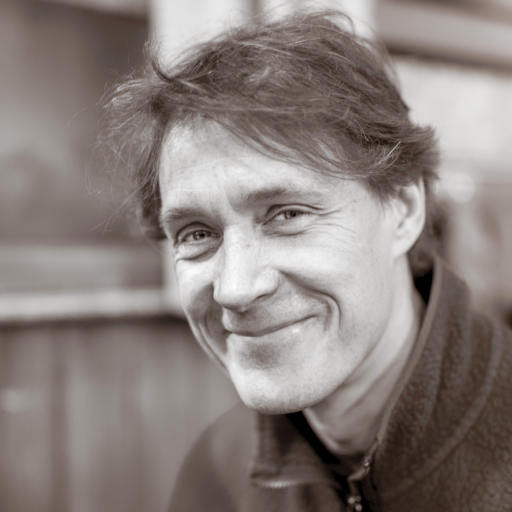
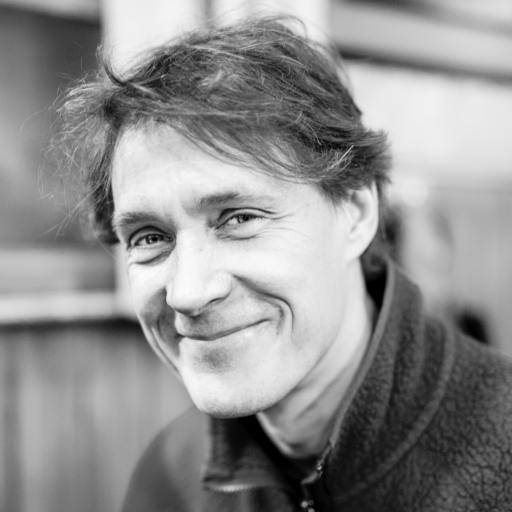
Added images, ' confirmed speakers'

diff --git a/layouts/abstracts/single.html b/layouts/abstracts/single.html
@@ -62,9 +62,9 @@
                 </ul>
               </div>
             {{ end }}
-            <div class="lg:col-4 flex items-center">
+            {{/*  <div class="lg:col-4 flex items-center">
               {{ partial "social-share" (dict "Context" . "Class" "share-icons" "Title" (i18n "share") "Whatsapp" false "Telegram" false "Linkedin" false "Pinterest" false "Tumblr" false "Vk" false) }}
-            </div>
+            </div>  */}}
           </div>
           <!-- comments -->
           {{ if site.Config.Services.Disqus.Shortname }}

diff --git a/content/english/topics/03b_qcr-in-material-science.md b/content/english/topics/03b_qcr-in-material-science.md
@@ -14,4 +14,7 @@ draft: false
 
 |Introduced by [Anna Krawczuk](/authors/anna-krawczuk)|
 |:-----------:|
-|This session explores the use of quantum crystallography to investigate structure-property relationships in crystalline materials. By providing detailed insights into the directionality, anisotropy, and strength of intermolecular interactions, these techniques enable the fine-tuning of selected physical properties. We welcome abstracts presenting studies that highlight the role of quantum crystallography in understanding and designing crystalline phases with tailored properties. |
+|This session explores the use of quantum crystallography to investigate structure-property relationships in crystalline materials. By providing detailed insights into the directionality, anisotropy, and strength of intermolecular interactions, these techniques enable the fine-tuning of selected physical properties. We welcome abstracts presenting studies that highlight the role of quantum crystallography in understanding and designing crystalline phases with tailored properties.|
+
+### Confirmed Speakers
+[Anna Krawczuk](/authors/anna-krawczuk)

diff --git a/content/english/authors/loes-kroon-batenburg.md b/content/english/authors/loes-kroon-batenburg.md
@@ -2,13 +2,18 @@
 title: Loes Kroon-Batenburg
 email: l.m.j.kroon-batenburg@uu.nl
 image: "/images/authors/LKB.jpg"
-image: "/images/avatar.png"
-
 description: 
 weight: 50
+social:
+  - name: Likedin
+    icon: fa-brands fa-linkedin
+    link: https://www.linkedin.com/in/loes-kroon-batenburg-21286a63
 
 ---
 
 **Loes Kroon-Batenburg** will introduce the section
 
 [From Frames to Intensity Data](/topics/05_raw-data-to-intensity)
+
+Loes Kroon-Batenburg is retired from the Utrecht University. She has been working on a wide variety of research subjects: crystal structures of carbohydrates, quantum chemistry of hydrogen bonding, fibre diffraction, data processing methods for complicated diffraction patterns (EVAL) and diffuse scattering in macromolecular and chemical crystallography. Since 2011 she was member of IUCr-DDDWG and continued as member of CommDat  since 2017. She is editor of  the Raw Data Letter section of IUCrData.
+

diff --git a/content/english/topics/05_raw-data-to-intensity.md b/content/english/topics/05_raw-data-to-intensity.md
@@ -17,3 +17,7 @@ draft: false
 |How to best separate Bragg peak and background|
 |What is done in data reduction? Lorentz and polarization correction, absorption correction, extinction correction, scaling, estimates of standard deviations|
 |How to record your diffraction results and make your data available to other users: FAIR data policies and metadata|
+
+### Confirmed Speakers
+[Loes Kroon-Batenburg](/authors/loes-kroon-batenburg)
+

diff --git a/content/english/topics/08_correlations-in-refinement-models.md b/content/english/topics/08_correlations-in-refinement-models.md
@@ -11,8 +11,11 @@ author: "Regine Herbst-Irmer"
 draft: false
 ---
 
-Introduced by [Could this be you?](/authors/nobody-assigned-yet)|
+Introduced by [Regine Herbst-Irmner](/authors/regine-herbst-irmer)|
 |:---:|
 |Things you can't see independently (disorder/ADPs)|
 |Pitfalls and remedies|
 |Best practices |
+
+### Confirmed Speakers
+[Regine Herbst-Irmner](/authors/regine-herbst-irmer)

diff --git a/content/english/authors/florian-kleemiss.md b/content/english/authors/florian-kleemiss.md
@@ -11,11 +11,11 @@ social:
 
   - name: Likedin
     icon: fa-brands fa-linkedin
-    link: linkedin.com/in/florian-kleemiß-6a4ab42aa
+    link: https://www.linkedin.com/in/florian-kleemi%C3%9F-6a4ab42aa/
 
   - name: OrcidID
     icon: fa-brands fa-orcid
-    link: linkedin.com/in/florian-kleemiß-6a4ab42aa
+    link: https://orcid.org/0000-0002-3631-1535
 
 ---
 

diff --git a/content/english/authors/ashwin-chari.md b/content/english/authors/ashwin-chari.md
@@ -1,11 +1,14 @@
 ---
 title: Ashwin Chari
 email: 
-# image: "/images/authors/AC.jpg"
-image: "/images/avatar.png"
+image: "/images/authors/AC.jpg"
 description: 
 weight: 13
 
 ---
 
-**Ashwin Chari** will talk at the ICDM10.
+**Ashwin Chari** will introduce the topic area of
+
+[Quantum Crystallography and Protein Structures](/topics/13_qcr_and_proteins)
+
+

diff --git a/content/english/abstracts/chari-ashwin.md b/content/english/abstracts/chari-ashwin.md
@@ -1,0 +1,13 @@
+---
+title: "High-precision, high-accuracy macromolecular crystallography"
+author: "Ashwin Chari"
+affiliation: "Max Planck Institute for Multidisciplinary Sciences"
+meta_title: ""
+description: ""
+date: 2025-03-21
+categories: ["Talk"]
+tags: ["macromolecular", "high-accuracy"]
+draft: false
+params:
+  math: true
+---

diff --git a/content/english/topics/13_QCr_and_proteins.md b/content/english/topics/13_QCr_and_proteins.md
@@ -12,6 +12,9 @@ author: "Nobody Assigned Yet"
 
 ---
 
-Introduced by [Could this be you?](/authors/nobody-assigned-yet)|
+Introduced by [Ashwin Chari](/authors/ashwin-chari)|
 |:---:|
 |How can QCr help with protein structures?|
+
+### Confirmed Speakers
+[Ashwin Chari](/authors/ashwin-chari)

diff --git a/content/english/authors/organisers/horst-puschmann.md b/content/english/authors/organisers/horst-puschmann.md
@@ -12,6 +12,10 @@ social:
     icon: fa-brands fa-bluesky
     link: https://bsky.app/profile/mulomulo.bsky.social
  
+  - name: OrcidID
+    icon: fa-brands fa-orcid
+    link: https://orcid.org/0000-0002-6819-9226
+
 ---
 
 Horst Puschmann is the local organiser of the ICDM10 in Durham

diff --git a/content/english/authors/regine-herbst-irmer.md b/content/english/authors/regine-herbst-irmer.md
@@ -10,4 +10,4 @@ weight: 35
 
 **Regine Herbst-Irmer** will introduce the section
 
-[Correlations in Refinement Models](/topics/08_correlations-in-refinement-models.md)
+[Correlations in Refinement Models](/topics/08_correlations-in-refinement-models)

diff --git a/content/english/topics/11_large-scale-facilities.md b/content/english/topics/11_large-scale-facilities.md
@@ -18,7 +18,8 @@ author: "Michael Bodensteiner"
 |Automation|
 |Impossible experiments|
 
-### Confirmed Speaker
+### Confirmed Speakers
+[Michael Bodensteiner](/authors/michael-bodensteiner)
 
 [Alison Edwards](/authors/alison-edwards)
 
